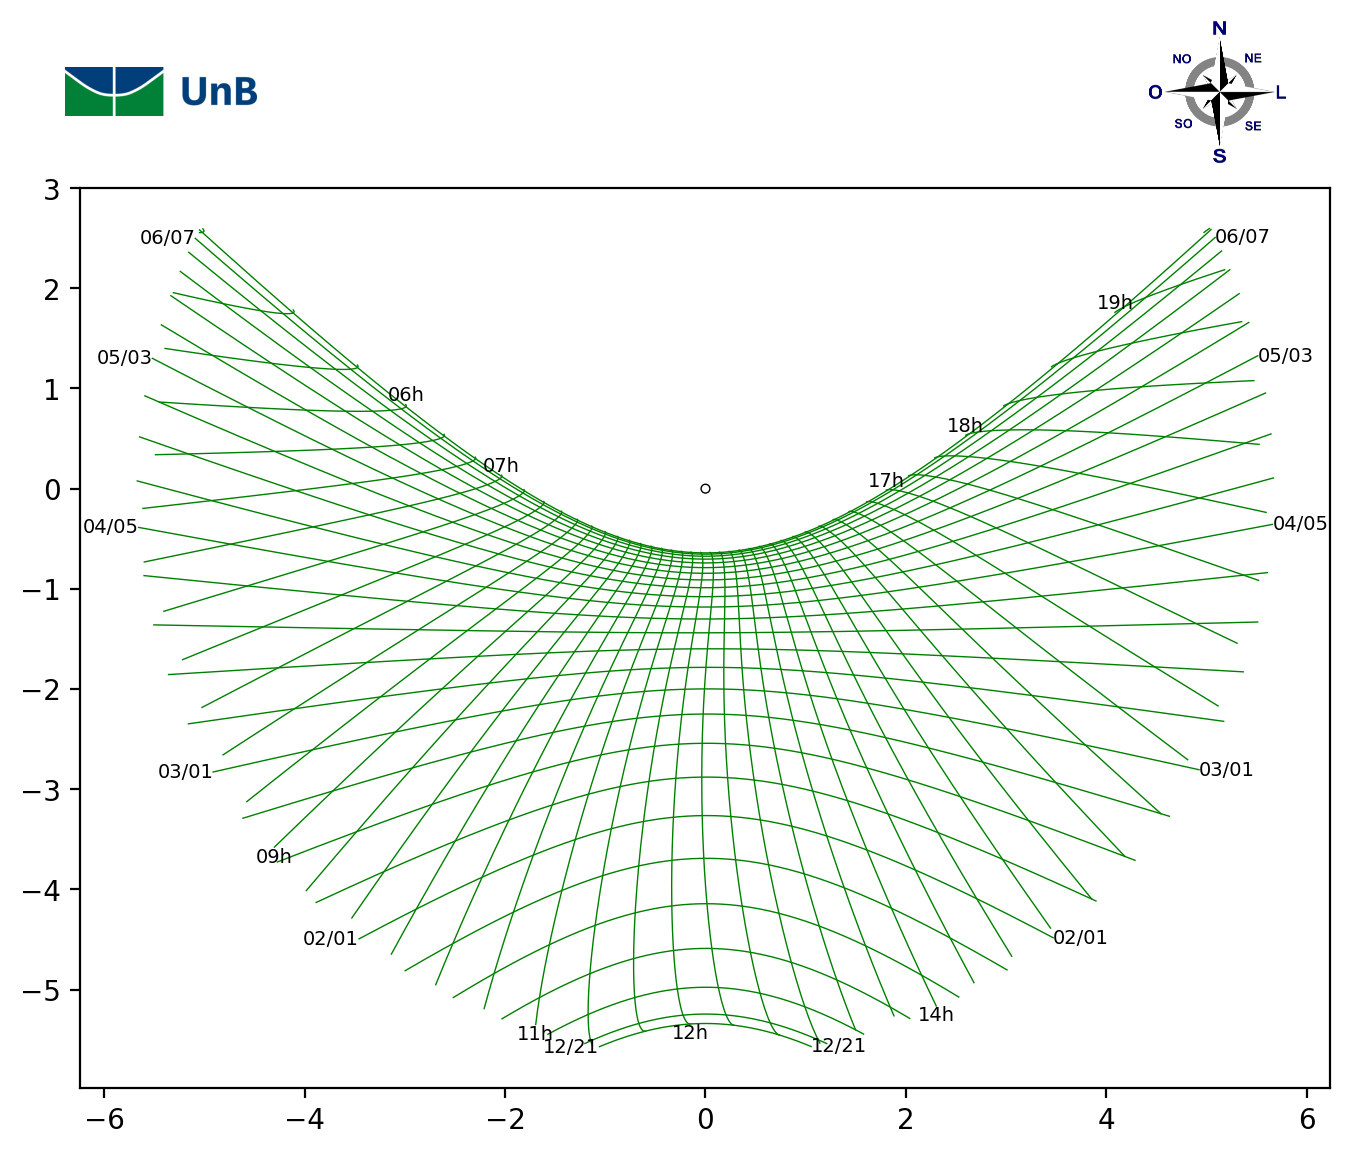
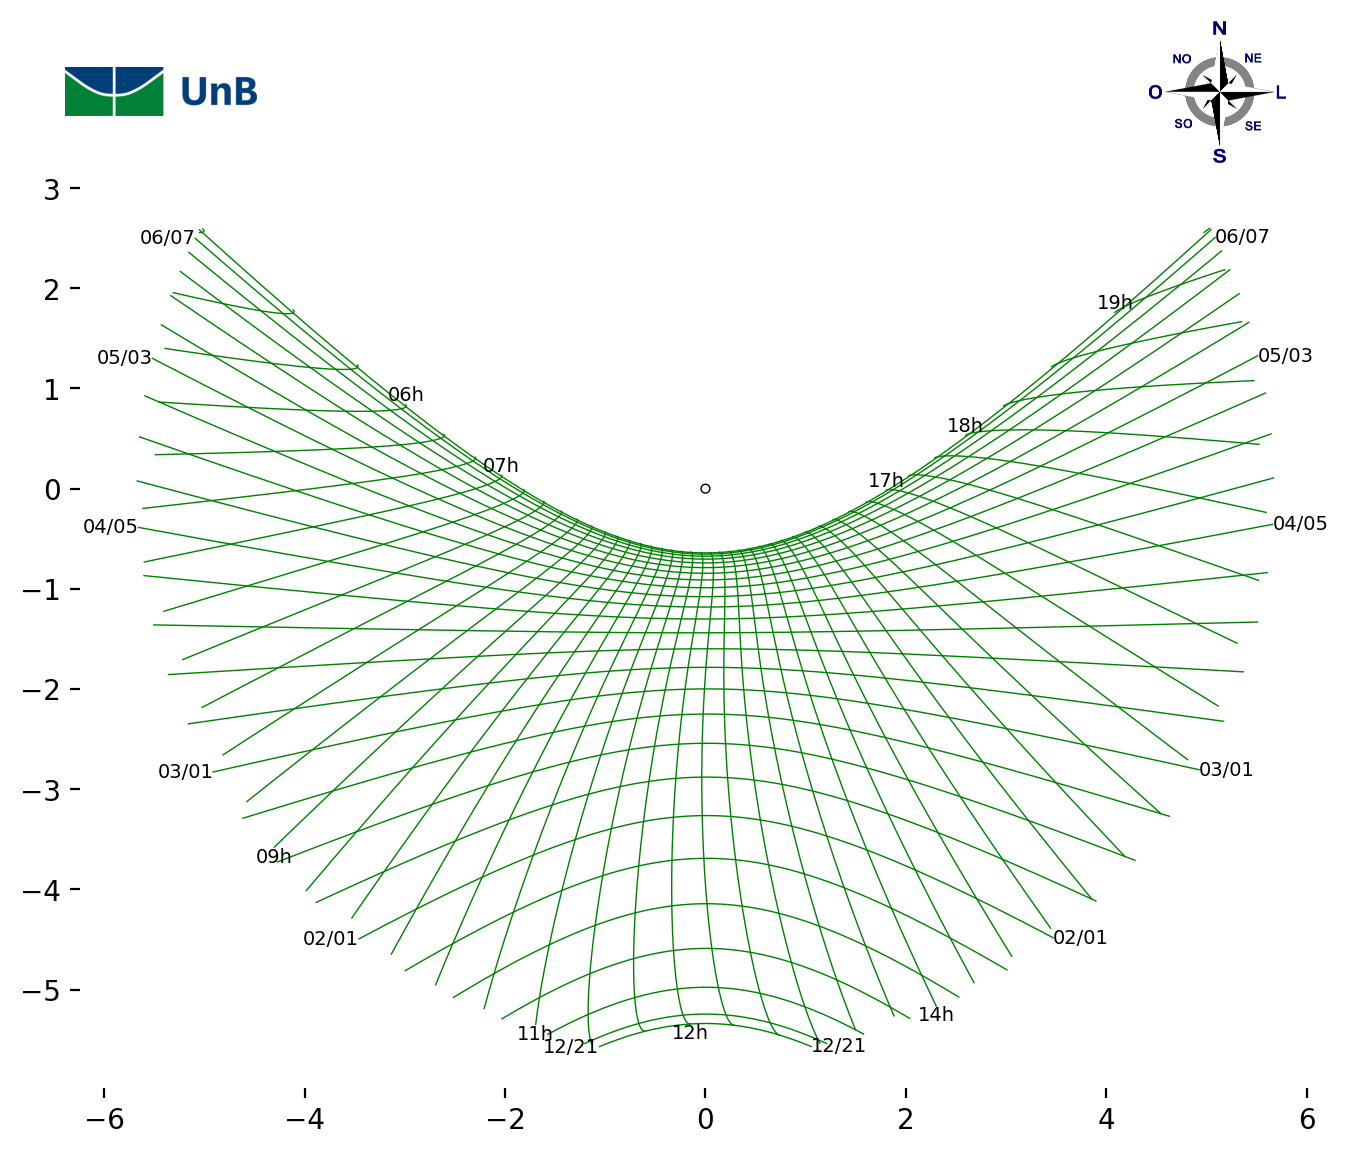
fix: drop the frame around the drawing
The user found the box around the dial annoying. It was matplotlib's
default axes spines, not a deliberate feature. The axis numbers (in
plumb lengths) stay. Example PNGs re-rendered.

Changed region(s): [[0.0622, 0.1558, 0.9956, 0.187], [0.0622, 0.9351, 0.9644, 0.9662]]

diff --git a/tests/renderers/test_matplotlib_backend.py b/tests/renderers/test_matplotlib_backend.py
@@ -47,3 +47,8 @@ def test_drawing_stays_in_axes_rect_pinned_to_its_top(width, height):
     left, bottom, w, h = hints.axes_rect
     assert box.y1 == pytest.approx(bottom + h)
     assert box.x0 >= left - 1e-9 and box.x1 <= left + w + 1e-9 and box.y0 >= bottom - 1e-9
+
+
+def test_no_frame_around_the_drawing():
+    fig, ax = render(_outline(12.0, 5.0))
+    assert not any(spine.get_visible() for spine in ax.spines.values())

diff --git a/accuratum/renderers/matplotlib_backend.py b/accuratum/renderers/matplotlib_backend.py
@@ -21,6 +21,8 @@ def render(plot: Plot, hints: RenderHints | None = None) -> tuple[Figure, Axes]:
     ax = fig.add_axes(hints.axes_rect)
     ax.set_aspect("equal")
     ax.set_anchor("N")  # hug the header band, whatever the drawing's shape
+    for spine in ax.spines.values():
+        spine.set_visible(False)
 
     for poly in plot.polylines:
         if poly.xs.size == 0:

diff --git a/docs/PROJECT_KNOWLEDGE.md b/docs/PROJECT_KNOWLEDGE.md
@@ -354,6 +354,9 @@ PLAN Step 5.1, 2026-09-29. Commit 23ab8ea.
 - **Cosmetic, left as is.** Overlays are placed relative to the figure, not
   to the drawn axes, so on a tall (narrower) drawing the logo sits a little
   left of the frame.
+- **No frame around the drawing** (user request). The axes spines were
+  matplotlib's default, not a feature; the axis numbers (plumb lengths)
+  stay.
 - **Tests.** The renderer keeps wide, square and tall drawings inside
   `axes_rect` and pinned to its top; the CLI's default overlays lie above
   it.
